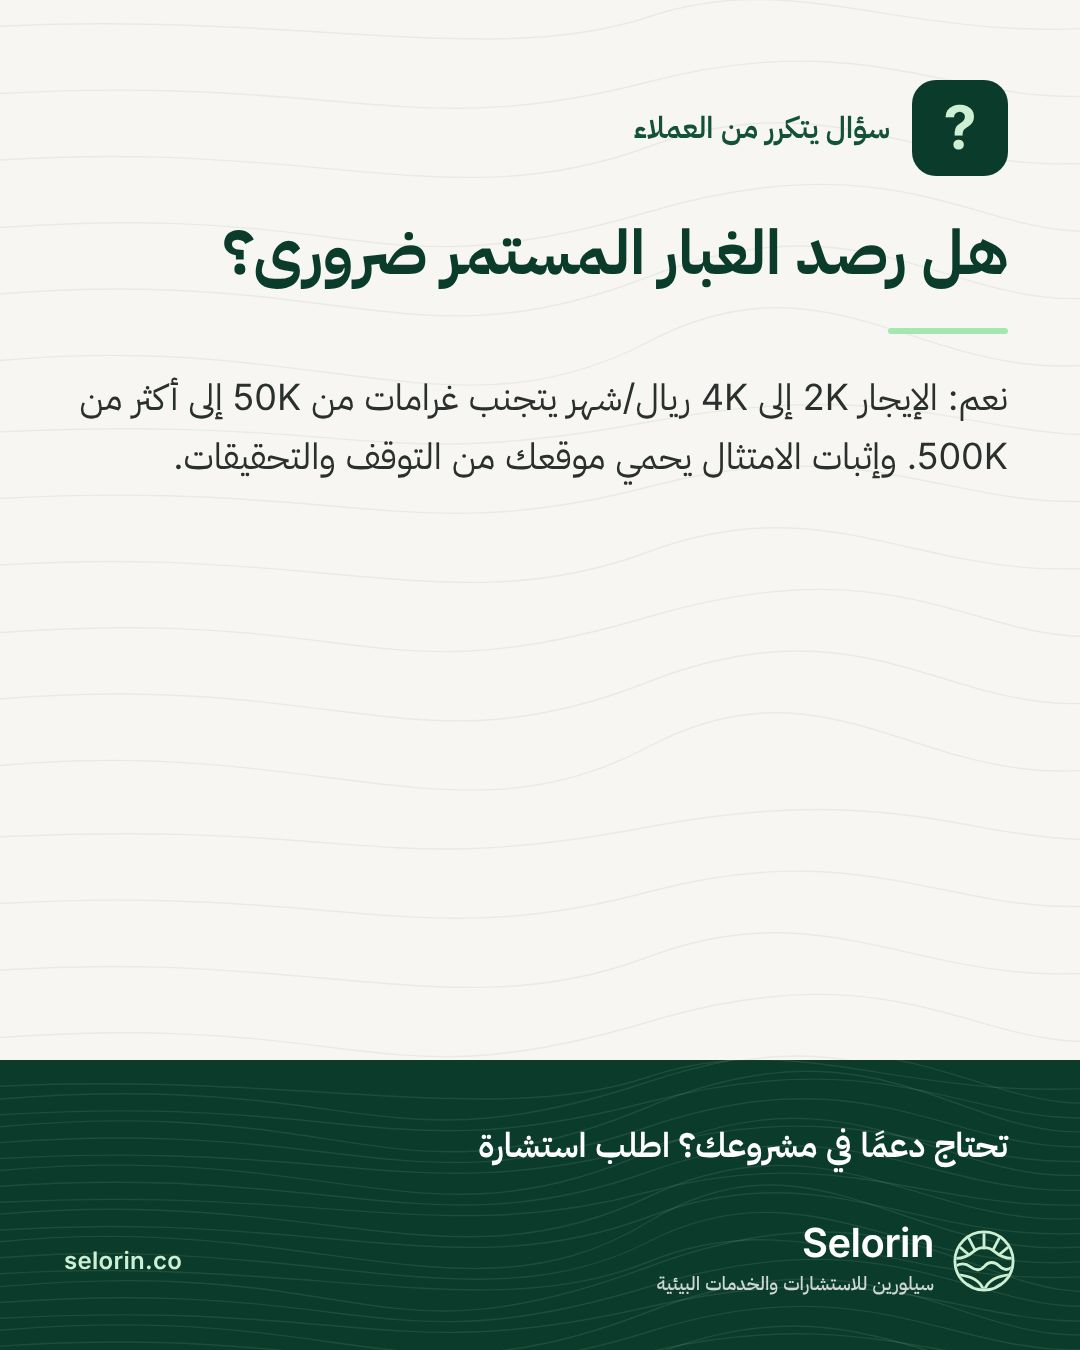
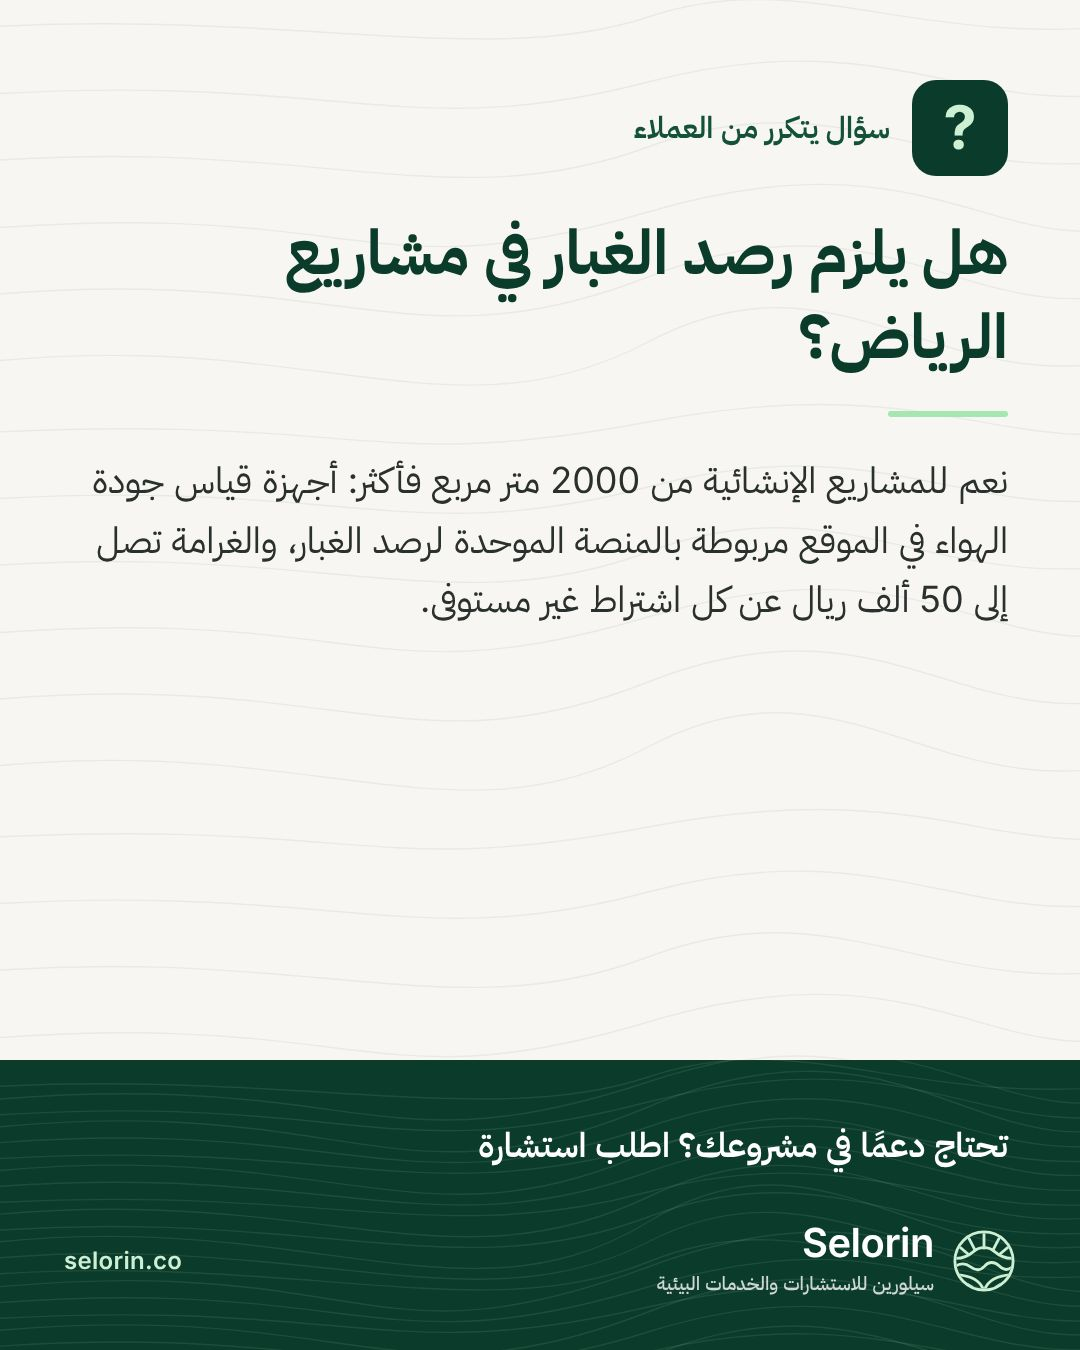
Dust station page: Riyadh dust conditions, installation controls and Selorin images
- Sourced compliance box on the station page: NCEC and the Royal Commission for Riyadh City
  (Feb 2026) require construction projects of 2,000 m2 or more in Riyadh to install air
  quality measuring devices linked to the unified dust monitoring platform, with fines of up
  to 50,000 riyals per unmet condition; NCEC has issued 557 violations worth over 16 million.
- New installation controls section, a Riyadh FAQ and regulatory line, and sources.
- Original illustrations of the station with the Selorin logo replace the generic photo,
  with a two-image gallery. No supplier names, models or prices on the page.
- Equipment schema gains optional alert and install fields; the spec note no longer
  mentions the manufacturer.
- Dec 3 post rewritten around the sourced Riyadh conditions, without the rental price or
  the unsourced fine range; its images are re-rendered.

Claude-Session: https://claude.ai/code/session_01GYvtozKmLXYtK8agsrbd5h

Changed region(s): [[0.0917, 0.1556, 0.9472, 0.4667], [0.3667, 0.4044, 0.3972, 0.4356], [0.0917, 0.4044, 0.1222, 0.4356]]

diff --git a/src/data/imagery.ts b/src/data/imagery.ts
@@ -10,6 +10,9 @@ const img = (src: string, width: number, height: number, en: string, ar: string)
 export const IMAGES = {
   windFarm: img("wind-farm.jpg", 735, 490, "Wind turbines across farmland at sunrise", "توربينات رياح فوق أراضٍ زراعية عند شروق الشمس"),
   windHills: img("wind-hills.jpg", 736, 414, "Wind turbines on green hills beside a road", "توربينات رياح على تلال خضراء بجانب طريق"),
+  dustStationSite: img("dust-station-site.jpg", 960, 1200, "Illustration of the Selorin dust, noise and weather monitoring station at a construction site boundary", "رسم توضيحي لمحطة سيلورين لرصد الغبار والضوضاء والطقس عند حدود موقع إنشاء"),
+  dustStationStudio: img("dust-station-studio.jpg", 1200, 900, "Illustration of the Selorin dust monitoring station with its solar panel", "رسم توضيحي لمحطة سيلورين لرصد الغبار مع لوحها الشمسي"),
+  dustStationFront: img("dust-station-front.jpg", 1200, 900, "Illustration of the station front: particulate inlet, noise microphone and wind sensors", "رسم توضيحي لواجهة المحطة: مدخل الجسيمات وميكروفون الضوضاء وحساسات الرياح"),
   monitoringStation: img("monitoring-station.jpg", 736, 736, "Solar-powered environmental monitoring station with weather and air sensors", "محطة رصد بيئي تعمل بالطاقة الشمسية مزوّدة بحساسات للطقس وجودة الهواء"),
   openPitMine: img("open-pit-mine.jpg", 736, 1301, "Open-pit mine with haul trucks and drilling rigs", "منجم مفتوح تعمل فيه شاحنات النقل ومعدات الحفر"),
   refinery: img("refinery.jpg", 720, 1100, "Process columns of an industrial plant at dusk", "أبراج المعالجة في منشأة صناعية عند الغروب"),
@@ -105,7 +108,7 @@ const PAGE: Record<string, Key> = {
 
 // Equipment pages: replace with licensed product photography as it is added to /public/images.
 const EQUIPMENT: Record<string, Key> = {
-  "dust-monitoring-station": "monitoringStation",
+  "dust-monitoring-station": "dustStationSite",
   "air-quality-monitoring-station": "monitoringStation",
   "continuous-emissions-monitoring": "powerPlant",
   "voc-sampling-analysis": "refinery",
@@ -117,6 +120,11 @@ const EQUIPMENT: Record<string, Key> = {
 };
 
 export const equipmentImage = (id: string) => IMAGES[EQUIPMENT[id] ?? "monitoringStation"];
+// Extra views shown in the overview of an equipment page.
+const EQUIPMENT_GALLERY: Record<string, Key[]> = {
+  "dust-monitoring-station": ["dustStationStudio", "dustStationFront"],
+};
+export const equipmentGallery = (id: string) => (EQUIPMENT_GALLERY[id] ?? []).map((k) => IMAGES[k]);
 export const categoryImage = (id: string) => IMAGES[CATEGORY[id] ?? "landscape"];
 export const serviceImage = (id: string, category: string) => IMAGES[SERVICE[id] ?? CATEGORY[category] ?? "landscape"];
 export const industryImage = (id: string) => IMAGES[INDUSTRY[id] ?? "landscape"];

diff --git a/src/styles/global.css b/src/styles/global.css
@@ -699,3 +699,13 @@ fieldset.field { border: 0; margin: 0; padding: 0; min-width: 0; }
   .brand-text small { display: none; }
   .header-tools { gap: var(--space-2); }
 }
+
+/* Equipment pages: image gallery and compliance alert */
+.equip-gallery { display: grid; grid-template-columns: repeat(2, minmax(0, 1fr)); gap: var(--space-4); }
+.equip-gallery figure { margin: 0; }
+.equip-gallery img { display: block; width: 100%; height: auto; border-radius: var(--radius-lg); border: 1px solid var(--c-line); }
+.equip-gallery figcaption { margin-top: var(--space-2); font-size: var(--fs-14); color: var(--c-muted); }
+@media (max-width: 640px) { .equip-gallery { grid-template-columns: 1fr; } }
+.equip-alert { padding: var(--space-6); border-radius: var(--radius-lg); background: #fdf3f1; border: 1px solid #f1cdc6; border-inline-start: 4px solid var(--c-alert); }
+.equip-alert h2 { margin-top: 0; }
+

diff --git a/src/content.config.ts b/src/content.config.ts
@@ -167,6 +167,9 @@ const equipmentLocale = z.object({
   types: z.array(z.object({ title: z.string(), description: z.string(), sectors: z.string() })).default([]),
   useCases: z.array(z.string()).min(3),
   regulatory: z.array(z.string()).min(1),
+  // Optional: a sourced compliance alert (why the equipment matters now) and installation controls.
+  alert: z.object({ title: z.string(), text: z.string(), points: z.array(z.string()).min(1), note: z.string() }).optional(),
+  install: z.array(z.object({ title: z.string(), text: z.string() })).default([]),
   faqs: z.array(faq).min(3),
 });
 
